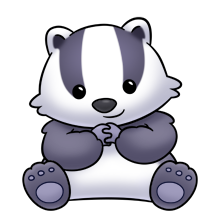
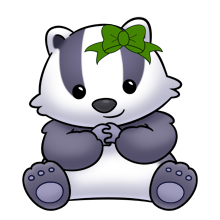
improving copy and putting a bow on Bella

Changed region(s): [[0.3818, 0.1091, 0.7364, 0.3]]

diff --git a/src/components/Welcome.js b/src/components/Welcome.js
@@ -6,7 +6,7 @@ export const Welcome = ({slogan}) => {
       <ToolHeader title={"Welcome!"} />
       <div className="center">
         <img src="/badger.png" />
-        <p>Join Bella and her ballot badger buddies by voting.</p>
+        <p>Join Bella and her badger buddies by voting.</p>
         <p>{slogan}</p>
       </div>
     </>
